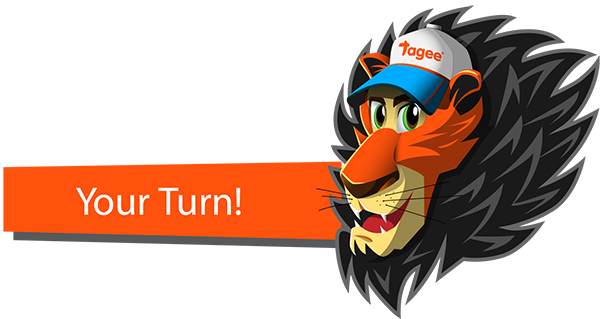
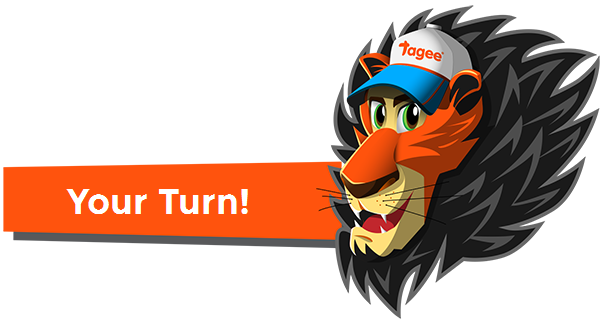
font and new changes on something.html

Changed region(s): [[0.09, 0.5643, 0.42, 0.6771]]

diff --git a/html/something.html b/html/something.html
@@ -112,14 +112,38 @@
                         </div>
                         <div class="article-gallery">
                         	<ul class="clearfix">
-                            	<li><span class="square square-1"></span></li>
-                                <li><span class="square square-2"></span></li>
-                                <li><span class="square square-3"></span></li>
-                                <li><span class="square square-4"></span></li>
-                                <li><span class="square square-5"></span></li>
-                                <li><span class="square square-6"></span></li>
-                                <li><span class="square square-7"></span></li>
-                                <li><span class="square square-8"></span></li>
+                            	<li>
+                                	<img src="images/channel_01.png" alt="">
+                                    <input type="text" placeholder="#channel" class="field-channel">
+                                </li>
+                                <li>
+                                	<img src="images/channel_02.png" alt="">
+                                    <input type="text" placeholder="#channel" class="field-channel">
+                                </li>
+                                <li>
+                                	<img src="images/channel_03.png" alt="">
+                                    <input type="text" placeholder="#channel" class="field-channel">
+                                </li>
+                                <li>
+                                	<img src="images/channel_04.png" alt="">
+                                    <input type="text" placeholder="#channel" class="field-channel">
+                                </li>
+                                <li>
+                                	<img src="images/channel_05.png" alt="">
+                                    <input type="text" placeholder="#channel" class="field-channel">
+                                </li>
+                                <li>
+                                	<img src="images/channel_06.png" alt="">
+                                    <input type="text" placeholder="#channel" class="field-channel">
+                                </li>
+                                <li>
+                                	<img src="images/channel_07.png" alt="">
+                                    <input type="text" placeholder="#channel" class="field-channel">
+                                </li>
+                                <li>
+                                	<img src="images/channel_08.png" alt="">
+                                    <input type="text" placeholder="#channel" class="field-channel">
+                                </li>
                             </ul>
                         </div>
                         <div class="join-art">
@@ -330,13 +354,16 @@
 
 </div><!--container-fluid -->
 
+
 <div class="overlay-popup"></div>
 <div class="popup-seciton" id="popup-login">
 	<div class="popup-title">Log-in !</div>
     <div class="popup-body">
     	<div class="social-section">
-        	<p><a href="#"><img src="images/social-1.png" alt=""></a></p>
-            <p><a href="#"><img src="images/social-2.png" alt=""></a></p>
+        	<p>
+            	<a href="#" class="facebook">Facebook</a>
+            </p>
+            <p><a href="#" class="twitter">Twitter</a></p>
             <p><a href="#"><img src="images/social-3.png" alt=""></a></p>
         </div>
         <div class="avater-wrap clearfix">
@@ -385,8 +412,8 @@
             </ul>
         </div>
         <div class="avater-btn">
-        	<a href="#" class="login-cancel"><img src="images/cancel.png" alt=""></a>
-            <a href="#"><img src="images/ok.png" alt=""></a>
+        	<a href="#" class="login-cancel cancel">Cancel</a>
+            <a href="#" class="login-cancel ok">OK !</a>
         </div>
         
     </div>

diff --git a/html/css/style.css b/html/css/style.css
@@ -18,6 +18,7 @@ article, aside, details, figcaption, figure, footer, header, hgroup, nav, sectio
 ______________________*/
 body, input, select, textarea{
 	font-family:Arial, Helvetica, sans-serif;
+	font-family: 'Montserrat', sans-serif;
 	font-family: 'Open Sans', sans-serif;
 	font-size:12px;
 	color:#000;
@@ -588,15 +589,25 @@ body .frame-shadow .frame-img{
 		padding:0 25px;
 	}
 .article-gallery{
-	padding:25px 0 50px;
+	padding:25px 0 20px;
 }
 	.article-gallery li{
 		float:left;
 		width:25%;
-		padding:0 15px 30px;
+		padding:0 15px 15px;
 		-moz-box-sizing:border-box;
 		-webkit-box-sizing:border-box;
 		box-sizing:border-box;
+	}
+	.field-channel{
+		background:#fff;
+		width:100%;
+		border:none;
+		padding:5px;
+		-moz-box-sizing:border-box;
+		-webkit-box-sizing:border-box;
+		box-sizing:border-box;
+		box-shadow:-3px 2px 0 rgba(0, 0, 0, 0.3);
 	}
 	.square{
 		display:block;
@@ -710,7 +721,9 @@ body .frame-shadow .frame-img{
 	}
 	.strip-black li a{
 		color:#d4ff8b;
+		color:#eee;
 		font-size:18px;
+		font-family: 'Montserrat', sans-serif;
 	}
 .footer-links{
 	padding:10px 0;
@@ -755,6 +768,8 @@ body .frame-shadow .frame-img{
 		padding:10px 50px 0;
 		font-size:28px;
 		position:relative;
+		font-weight:bold;
+		font-family: 'Montserrat', sans-serif;
 	}
 	.social-section{
 		text-align:center;
@@ -763,10 +778,28 @@ body .frame-shadow .frame-img{
 		margin:0 50px;
 	}
 		.social-section img{
-			max-width:250px;
+			max-width:300px;
 		}
 		.social-section p{
 			margin:0 0 15px;
+		}
+		.facebook,
+		.twitter{
+			background:url(../images/social-1.png) no-repeat;
+			width:275px;
+			height:58px;
+			line-height:55px;
+			padding-right:25px;
+			text-align:center;
+			color:#fff;
+			display:inline-block;
+			font-family: 'Montserrat', sans-serif;
+			font-weight:bold;
+			font-size:28px;
+		}
+		.twitter{
+			background:url(../images/social-2.png) no-repeat;
+			height:66px;
 		}
 .avater-wrap{
 	padding:50px 100px 0;
@@ -852,15 +885,18 @@ body .frame-shadow .frame-img{
 			width:25px;
 		}
 		.signup{
+			font-family: 'Montserrat', sans-serif;
 			background:url(../images/signup.png) no-repeat;
 			width:200px;
 			height:45px;
 			line-height:45px;
 			text-align:center;
+			font-size:20px;
+			color:#fff;
+			font-weight:bold;
 			border:none;
 			cursor:pointer;
 			padding:0;
-			font-size:0;
 		}
 .avater-gallery{
 	padding:45px 0 20px;
@@ -891,6 +927,22 @@ body .frame-shadow .frame-img{
 	}
 	.avater-btn img{
 		max-width:300px;
+	}
+	.cancel,
+	.ok{
+		font-family: 'Montserrat', sans-serif;
+		background:url(../images/cancel.png) no-repeat;
+		width:300px;
+		height:69px;
+		line-height:67px;
+		text-align:center;
+		display:inline-block;
+		font-size:29px;
+		color:#fff;
+		font-weight:bold;
+	}
+	.ok{
+		background:url(../images/ok.png) no-repeat;
 	}
 /*  Footer change.
 -------------------------------------- */

diff --git a/html/index.html b/html/index.html
@@ -21,6 +21,9 @@
     <link rel="stylesheet" type="text/css" href="//cloud.typography.com/7929494/6170752/css/fonts.css" /> 
     
     <link href='https://fonts.googleapis.com/css?family=Open+Sans:400,300,300italic,400italic,600,600italic,700,700italic,800,800italic' rel='stylesheet' type='text/css'>
+    <link href='https://fonts.googleapis.com/css?family=Montserrat:400,700' rel='stylesheet' type='text/css'>
+    
+    
     <link type="text/css" rel="stylesheet" href="css/font-awesome.css" />
     <link type="text/css" rel="stylesheet" href="css/style.css" />
     
@@ -87,6 +90,7 @@
         </div>
     </div>            
 </div>
+
 
 <!--main start -->
 <div id="">
@@ -412,8 +416,10 @@
 	<div class="popup-title">Log-in !</div>
     <div class="popup-body">
     	<div class="social-section">
-        	<p><a href="#"><img src="images/social-1.png" alt=""></a></p>
-            <p><a href="#"><img src="images/social-2.png" alt=""></a></p>
+        	<p>
+            	<a href="#" class="facebook">Facebook</a>
+            </p>
+            <p><a href="#" class="twitter">Twitter</a></p>
             <p><a href="#"><img src="images/social-3.png" alt=""></a></p>
         </div>
         <div class="avater-wrap clearfix">
@@ -462,8 +468,8 @@
             </ul>
         </div>
         <div class="avater-btn">
-        	<a href="#" class="login-cancel"><img src="images/cancel.png" alt=""></a>
-            <a href="#"><img src="images/ok.png" alt=""></a>
+        	<a href="#" class="login-cancel cancel">Cancel</a>
+            <a href="#" class="login-cancel ok">OK !</a>
         </div>
         
     </div>

diff --git a/html/gallery.html b/html/gallery.html
@@ -486,8 +486,10 @@
 	<div class="popup-title">Log-in !</div>
     <div class="popup-body">
     	<div class="social-section">
-        	<p><a href="#"><img src="images/social-1.png" alt=""></a></p>
-            <p><a href="#"><img src="images/social-2.png" alt=""></a></p>
+        	<p>
+            	<a href="#" class="facebook">Facebook</a>
+            </p>
+            <p><a href="#" class="twitter">Twitter</a></p>
             <p><a href="#"><img src="images/social-3.png" alt=""></a></p>
         </div>
         <div class="avater-wrap clearfix">
@@ -536,8 +538,8 @@
             </ul>
         </div>
         <div class="avater-btn">
-        	<a href="#" class="login-cancel"><img src="images/cancel.png" alt=""></a>
-            <a href="#"><img src="images/ok.png" alt=""></a>
+        	<a href="#" class="login-cancel cancel">Cancel</a>
+            <a href="#" class="login-cancel ok">OK !</a>
         </div>
         
     </div>

diff --git a/html/landing.html b/html/landing.html
@@ -133,8 +133,10 @@
 	<div class="popup-title">Log-in !</div>
     <div class="popup-body">
     	<div class="social-section">
-        	<p><a href="#"><img src="images/social-1.png" alt=""></a></p>
-            <p><a href="#"><img src="images/social-2.png" alt=""></a></p>
+        	<p>
+            	<a href="#" class="facebook">Facebook</a>
+            </p>
+            <p><a href="#" class="twitter">Twitter</a></p>
             <p><a href="#"><img src="images/social-3.png" alt=""></a></p>
         </div>
         <div class="avater-wrap clearfix">
@@ -183,8 +185,8 @@
             </ul>
         </div>
         <div class="avater-btn">
-        	<a href="#" class="login-cancel"><img src="images/cancel.png" alt=""></a>
-            <a href="#"><img src="images/ok.png" alt=""></a>
+        	<a href="#" class="login-cancel cancel">Cancel</a>
+            <a href="#" class="login-cancel ok">OK !</a>
         </div>
         
     </div>

diff --git a/html/turn.html b/html/turn.html
@@ -441,8 +441,10 @@
 	<div class="popup-title">Log-in !</div>
     <div class="popup-body">
     	<div class="social-section">
-        	<p><a href="#"><img src="images/social-1.png" alt=""></a></p>
-            <p><a href="#"><img src="images/social-2.png" alt=""></a></p>
+        	<p>
+            	<a href="#" class="facebook">Facebook</a>
+            </p>
+            <p><a href="#" class="twitter">Twitter</a></p>
             <p><a href="#"><img src="images/social-3.png" alt=""></a></p>
         </div>
         <div class="avater-wrap clearfix">
@@ -491,8 +493,8 @@
             </ul>
         </div>
         <div class="avater-btn">
-        	<a href="#" class="login-cancel"><img src="images/cancel.png" alt=""></a>
-            <a href="#"><img src="images/ok.png" alt=""></a>
+        	<a href="#" class="login-cancel cancel">Cancel</a>
+            <a href="#" class="login-cancel ok">OK !</a>
         </div>
         
     </div>
